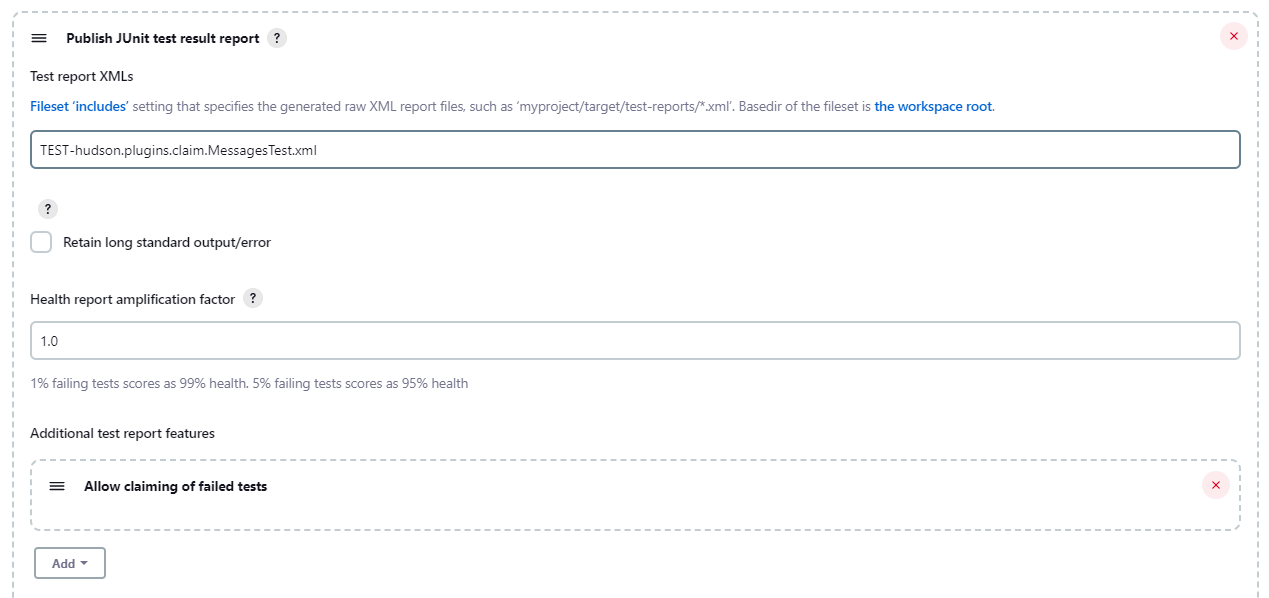
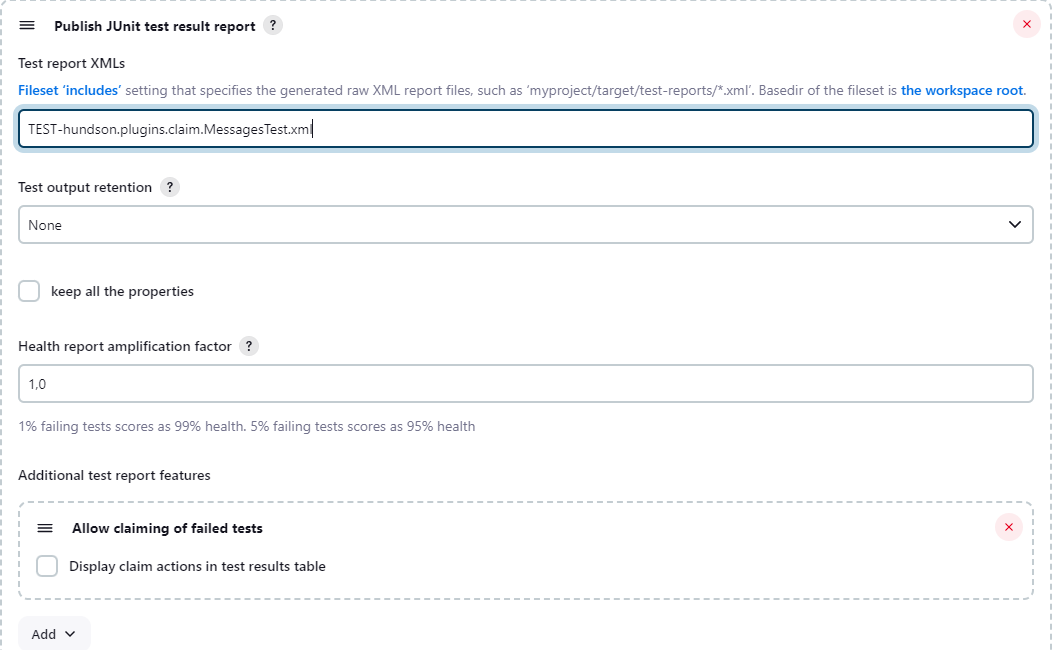
Update readme about the 'Display claim actions in test results table' option.

Changed region(s): [[0.0, 0.0, 1.0, 0.6622], [0.0, 0.6923, 1.0, 0.9933], [0.9725, 0.9933, 1.0, 1.0]]

diff --git a/README.md b/README.md
@@ -43,7 +43,7 @@ The claim information will also be displayed on the **Build History** widget, wi
 
 ### Allow claiming of failed tests
 
-To allow claiming of failed tests, add a **Allow claiming of failed test** additional test report features to your test results report post-build action.
+To allow claiming of failed tests, add a **Allow claiming of failed test** additional test report features to your test results report post-build action. Optional, check **Display claim actions in test results table** to allow direct claiming from the test results pages. 
 
 ![The Claim test test result report feature](./docs/images/test-config-claim.png)
 
@@ -55,6 +55,7 @@ Failed tests will then display a **Claim it** option. | ![The "Claim it" action 
 Upon clicking the **Claim it** link, a logged-in user can then claim the test. | ![The claim details for a test](./docs/images/test-claim-details.png)
 The test will then display the claim information, along with options to **Drop the claim** or **Reassign it**. | ![The claim info for a test](./docs/images/test-claim-info.png)
 The claim information will also be displayed on the **Test Result** page, with a tooltipinformation about the claim. | ![The claim history for a test](./docs/images/test-claim-summary.png)
+With checked **Display claim actions in test results table** setting, logged in users will see claim actions as new column on the **Test Result** page | ![The claim actions on the test result page](./docs/images/claim-actions-on-test-results.png)
 
 ### Integration with Build Failure Analyzer
 This feature is supported from v2.8 forward.
@@ -95,6 +96,14 @@ Example:
 
 ```
 junit testDataPublishers: [[$class: 'ClaimTestDataPublisher']], testResults: '**/target/*-reports/TEST*.xml'
+```
+
+To show claim actions directly on the test results page, the **displayClaimActionsInTestResultsTable** option can be added.
+
+Example:
+
+```
+junit testDataPublishers: [[$class: 'ClaimTestDataPublisher', displayClaimActionsInTestResultsTable: true]], testResults: '**/target/*-reports/TEST*.xml'
 ```
 
 ### Limitations
